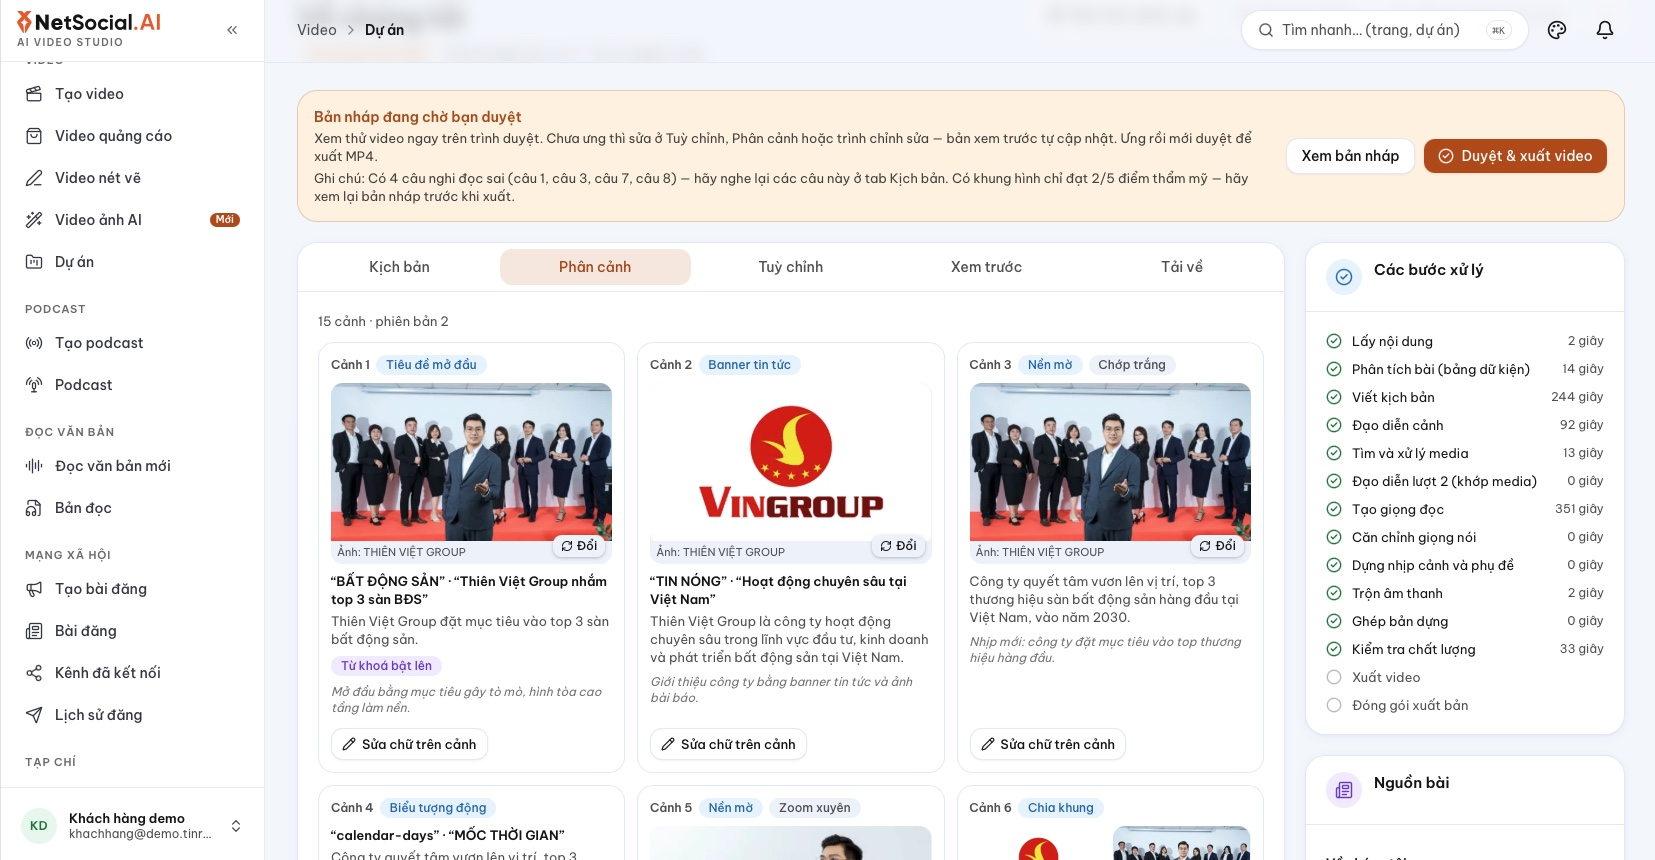
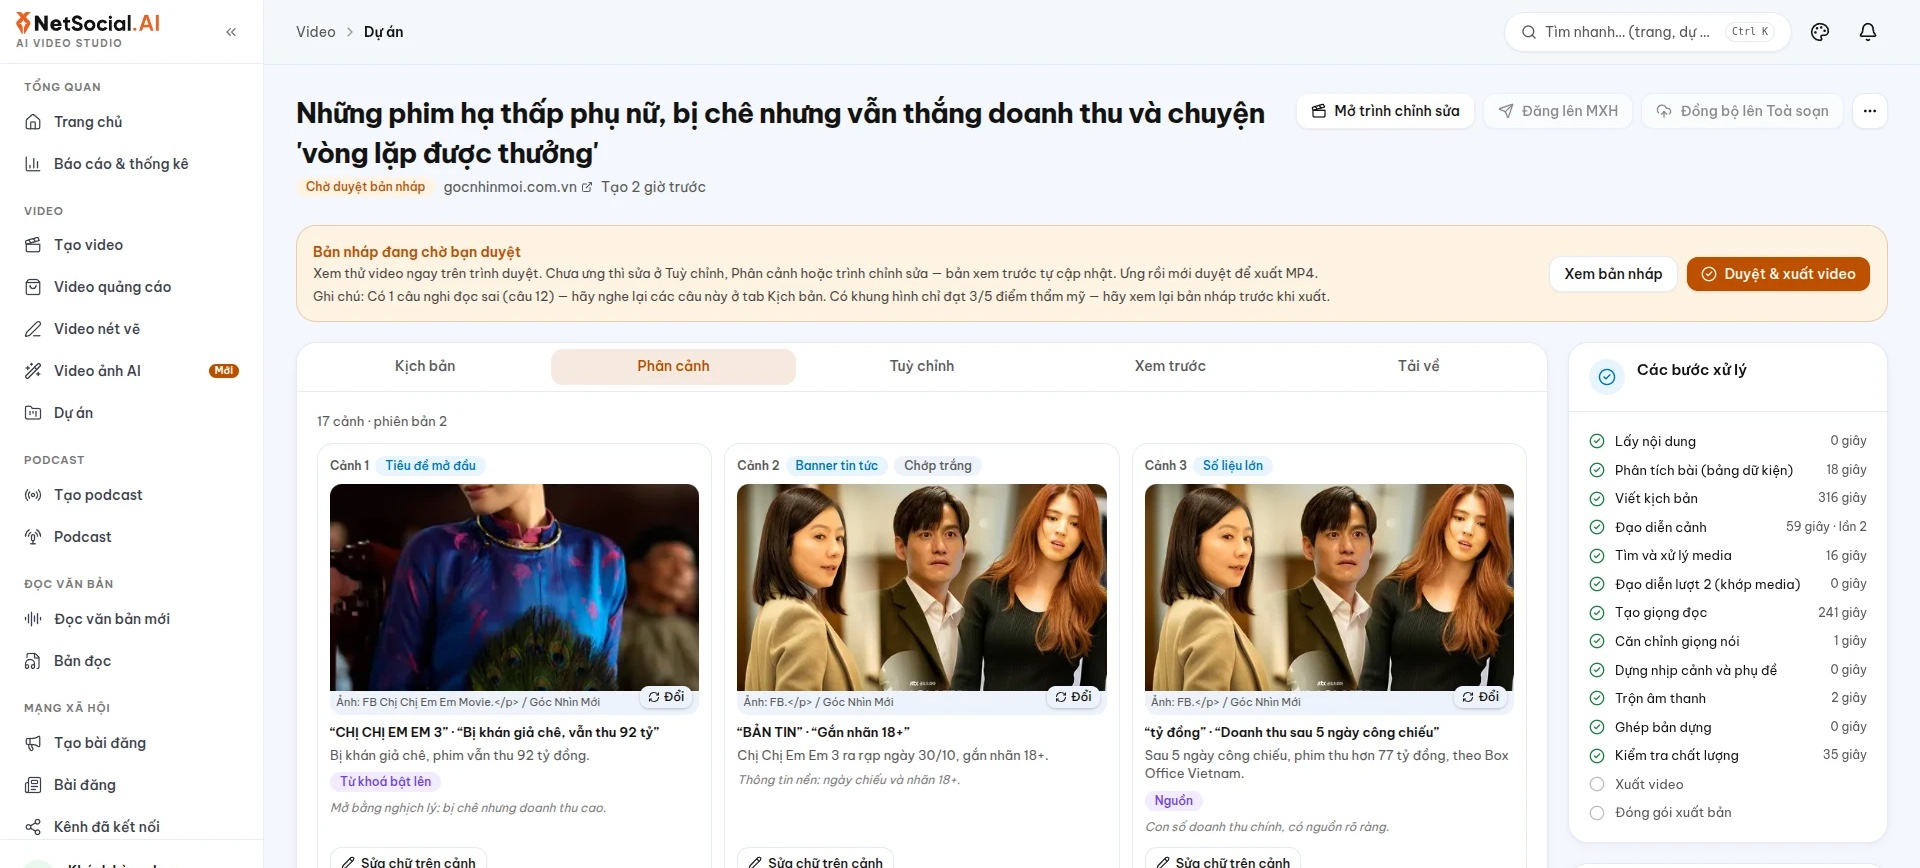
NetSocial landing: update editor screenshot

diff --git a/antsocial-landing/index.html b/antsocial-landing/index.html
@@ -428,6 +428,7 @@ button.cmp-btn { border: 0; cursor: pointer; }
 .screens img { position: absolute; inset: 0; width: 100%; height: 100%; object-fit: cover; object-position: left top; opacity: 0; transform: scale(1.015); transition: opacity 0.6s ease, transform 1s var(--ease); }
 .screens img.is-on { opacity: 1; transform: none; }
 @media (min-width: 701px) { .screens { aspect-ratio: 1655 / 863; } }
+@media (min-width: 701px) { .screens img.fit-contain { object-fit: contain; object-position: center top; -webkit-mask-image: linear-gradient(#000 84%, transparent); mask-image: linear-gradient(#000 84%, transparent); } }
 .callout { position: absolute; z-index: 2; display: flex; align-items: center; gap: 10px; padding: 11px 15px 11px 12px; border-radius: 14px; background: rgba(22, 17, 19, 0.92); border: 1px solid var(--line-2); box-shadow: 0 24px 50px -20px rgba(0, 0, 0, 0.9); font-size: 14px; font-weight: 500; white-space: nowrap; transition: opacity 0.45s ease, transform 0.6s var(--ease); }
 .callout i { width: 26px; height: 26px; border-radius: 8px; display: grid; place-items: center; background: rgba(247, 97, 42, 0.15); color: var(--amber); }
 .callout i svg { width: 14px; height: 14px; }
@@ -910,7 +911,7 @@ footer { border-top: 1px solid var(--line); background: var(--ink); }
           <div class="screens" id="screens" role="tabpanel" aria-labelledby="tab-0">
             <img class="is-on fit-w" style="--fx:58%" src="assets/s-discover.webp" width="1656" height="861" alt="Màn hình Khám phá: ô dán link bài viết để tạo video, podcast hoặc bài đăng" decoding="async">
             <img class="fit-w" style="--fx:30%" src="assets/s-create.jpg" width="1654" height="865" alt="Màn hình tạo video bằng AI: nhập nội dung, chọn khổ video, thời lượng và giọng đọc" loading="lazy" decoding="async">
-            <img class="fit-w" style="--fx:50%" src="assets/s-editor.jpg" width="1655" height="860" alt="Biên tập cảnh: bản nháp chờ duyệt, danh sách phân cảnh và các bước xử lý" loading="lazy" decoding="async">
+            <img class="fit-w fit-contain" style="--fx:50%" src="assets/s-editor.jpg" width="1920" height="868" alt="Biên tập cảnh: bản nháp chờ duyệt, danh sách phân cảnh và các bước xử lý" loading="lazy" decoding="async">
             <img class="fit-w" style="--fx:50%" src="assets/s-publish.jpg" width="1655" height="863" alt="Tạo bài đăng mạng xã hội: dán link bài báo, chọn nền tảng và giọng văn" loading="lazy" decoding="async">
             <img class="fit-w" style="--fx:50%" src="assets/s-podcast-create.jpg" width="1656" height="864" alt="Màn hình AI tạo podcast: kiểu đối thoại, thời lượng, hai giọng đọc" loading="lazy" decoding="async">
             <img class="fit-w" style="--fx:30%" src="assets/s-tts.jpg" width="1655" height="863" alt="Đọc văn bản mới: dán đoạn văn, chọn giọng đọc, tốc độ và nhạc nền" loading="lazy" decoding="async">
